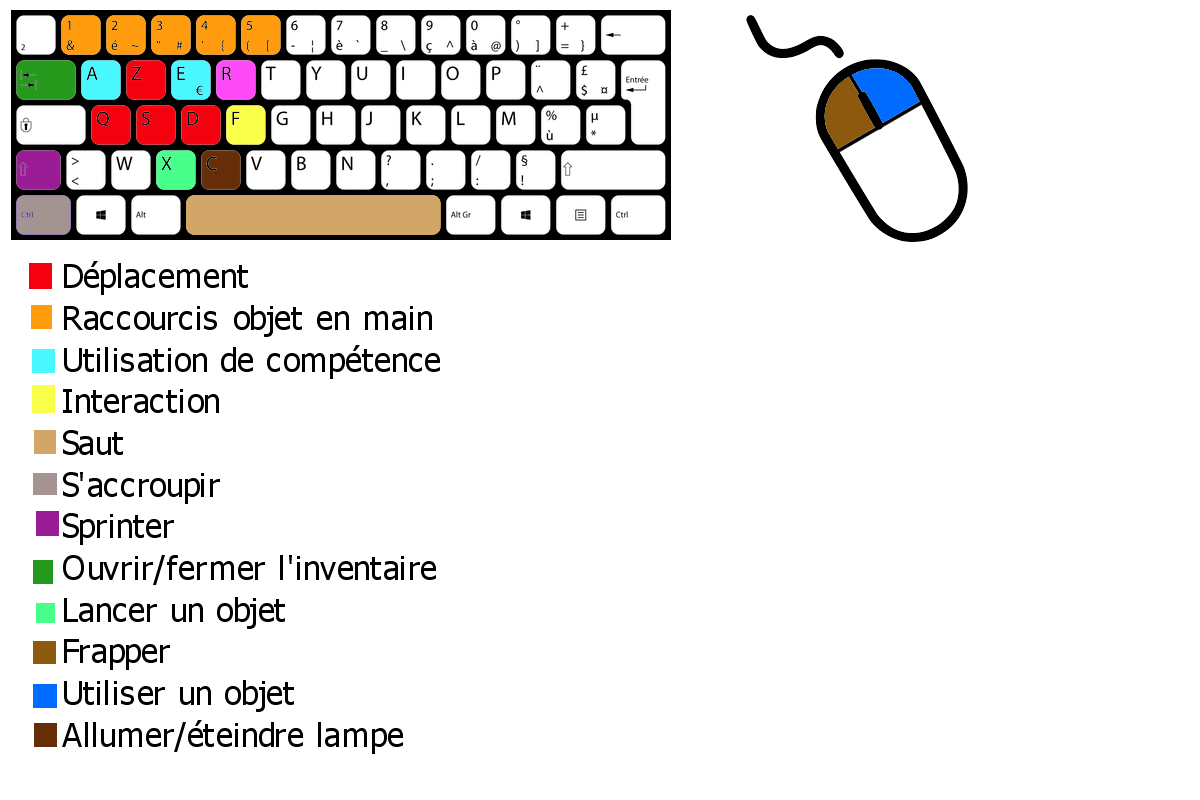
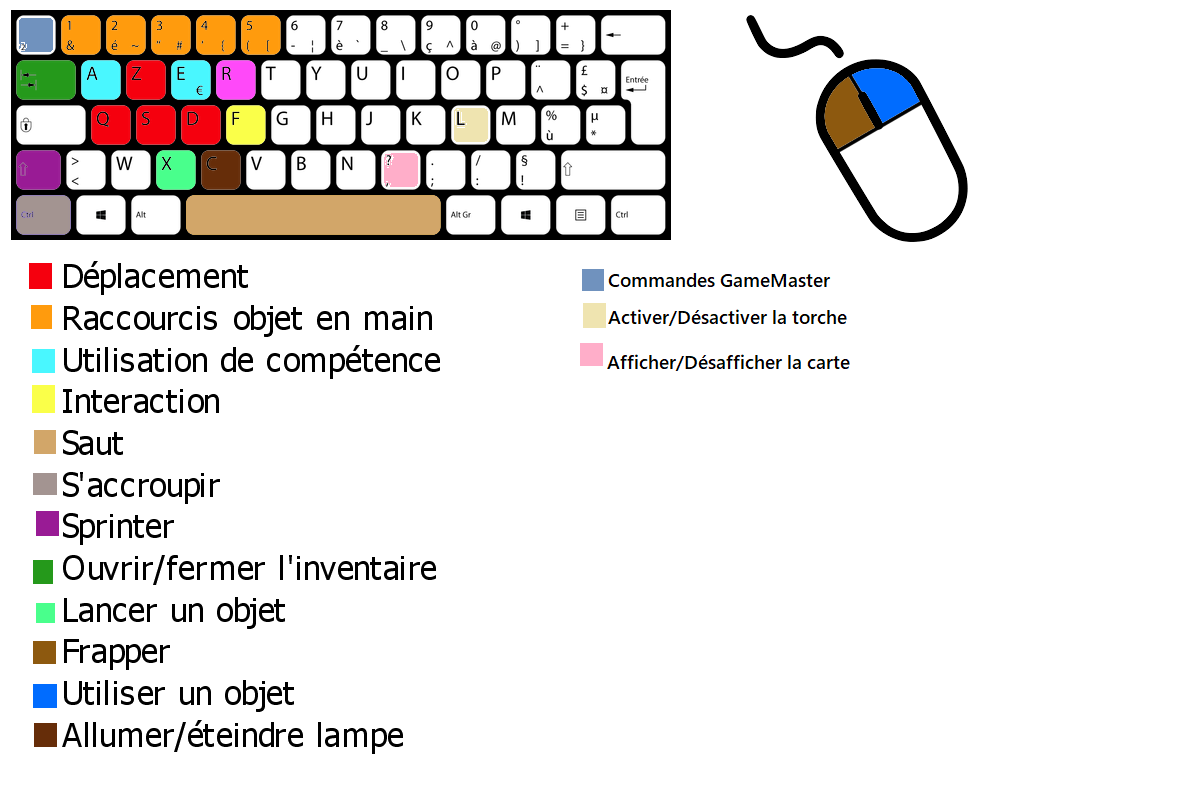
[M] Readme modification

diff --git a/README.md b/README.md
@@ -9,11 +9,11 @@ Espace - Sauter
 Shift - Sprinter   
 CTRL - S'accroupir   
 F - Interaction     
-C - Allumer/Eteindre la lampe torche    
 R - Lâcher de l'objet en main    
 X - Lancer l'objet en main   
 , - Map   
-Tab - Ouvrir/Fermer l'inventaire   
+Tab - Ouvrir/Fermer l'inventaire  
+Echap - Menu    
    
 Clic gauche - Frapper    
 Clic droite - Activer/Utiliser l'objet en main   
@@ -27,6 +27,55 @@ Clic droite - Activer/Utiliser l'objet en main
 A - Skill 1   
 E - Skill 2   
 
-# Commandes Offline :   
-U - Lancer la montée de l'eau en Offline   
+# Pour le Master Client (marche aussi en Offline) :      
+
+² - Ouvrir le menu du GameMaster (Pour devenir Invincible, Invisible, se donner un objet)   
+O - Se téléporter au dernier étage (~avec plus ou moins de chance)   
+U - Activer/Désactiver la montée de l'eau       
+I - Ouvrir les portes de départ   
+
+# Liste des crafts :      
+
+Oil Bottle = Bottle + Jerrican       
+Molotov Cocktail = Oil Bottle + Toilet Paper || Bottle + Jerrican + Toilet Paper      
+Steel-Jaw Trap (Wolf Trap) = Metal Sheet + Rope + Nail Box    
+Rioter Trap = Metal Sheet + Wooden Staff + Toilet Paper + Rope   
+
+
+# ID des Objets :   
+
+Les sprites des items ne sont pas les bons lors de l'ajout par commande GameMaster   
+    
+1 - Wooden Staff : Arme de base en dehors de vos poings        
+2 - Oil Bottle : Peut être lancée sur vos adversaires pour les rendre inflammable    
+3 - Molotov Cocktail : Peut être lancé pour enflammer une zone, un joueur ou les deux à la fois    
+4 - Broken Bottle : Arme de fortune, peut être utilisée pour frapper directement ou lancée sur un joueur pour infliger des dégâts    
+7 - Steel-Jaw Trap (Wolf Trap) : Peut être posé au sol pour immobiliser un joueur pendant 2 secondes et lui faire des dégâts    
+9 - Rioter Trap : Peut être placé au sol avec une corde pour lancer des rouleaux de papier toilette enflammés qui peuvent enflammer et infliger des dégâts à vos adversaires    
+10 - Rope : Peut être positionnée sur n'importe quelle surface pour faire tomber vos adversaires au sol    
+11 - Toilet Paper : Permet de se soigner quelques points de vie    
+14 - Nail Box : Permet la création d'une zone au sol parsemée de clous et d'infliger des dégâts aux joueurs passant dessus    
+15 - Jerrican : Rempli d'essence, il vous permet de poser une zone d'essence inflammable au sol, 3 charges    
+16 - Metal Sheet : Peut être posée au sol afin de produire du bruit lorsqu'un joueur marche dessus    
+17 - Torch : Peut être allumée afin de produire une lumière plus ténue et plus discrète    
+
+
+
+
+
+
+
+
+
+
+
+
+
+
+
+
+
+
+
+
 
